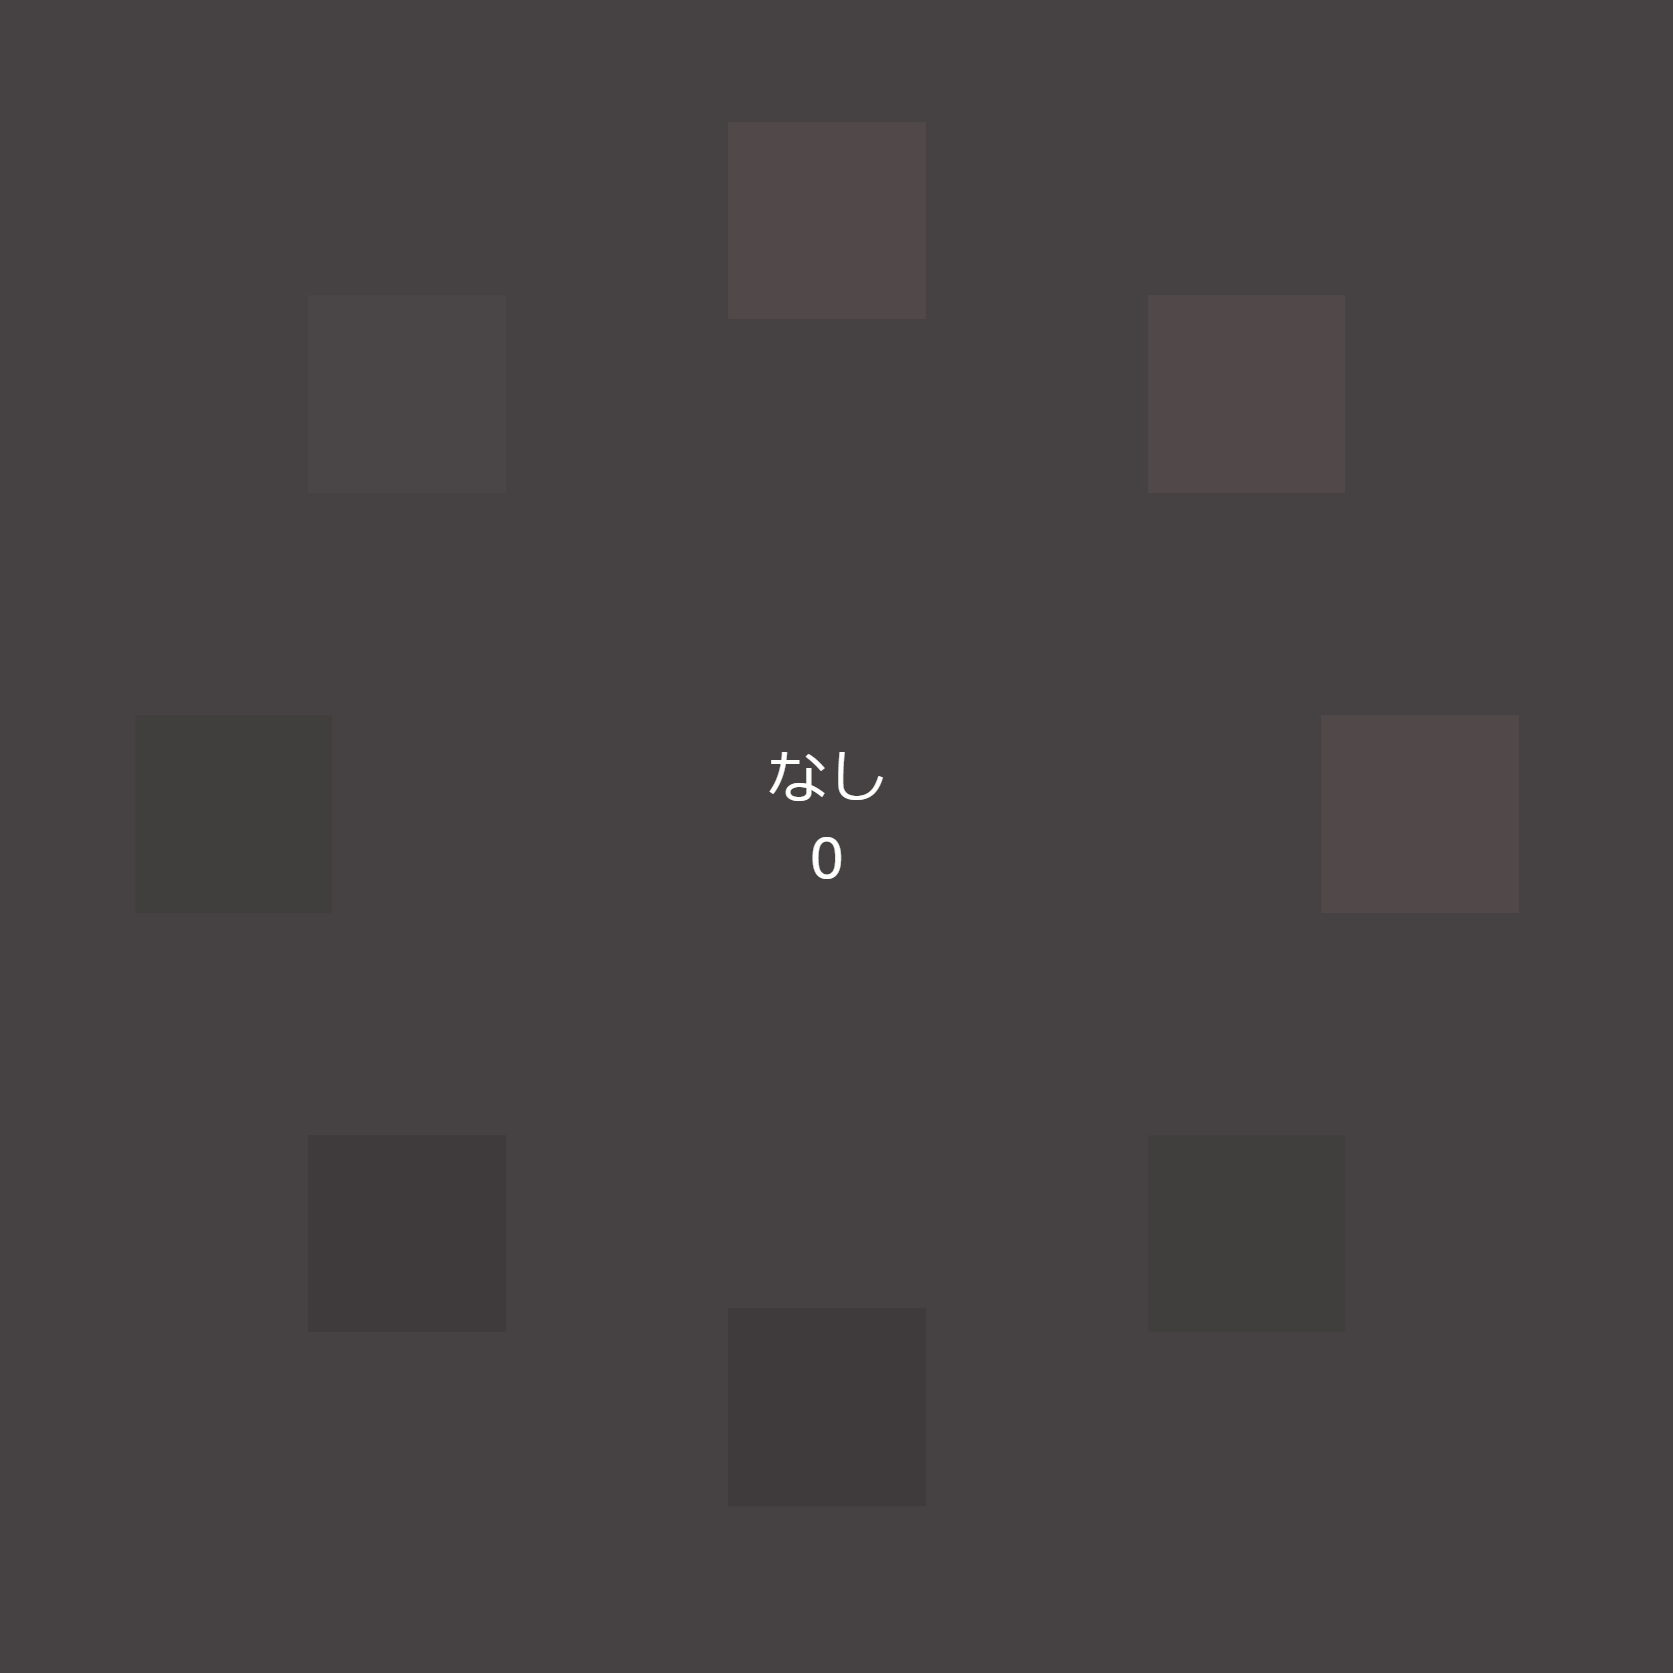
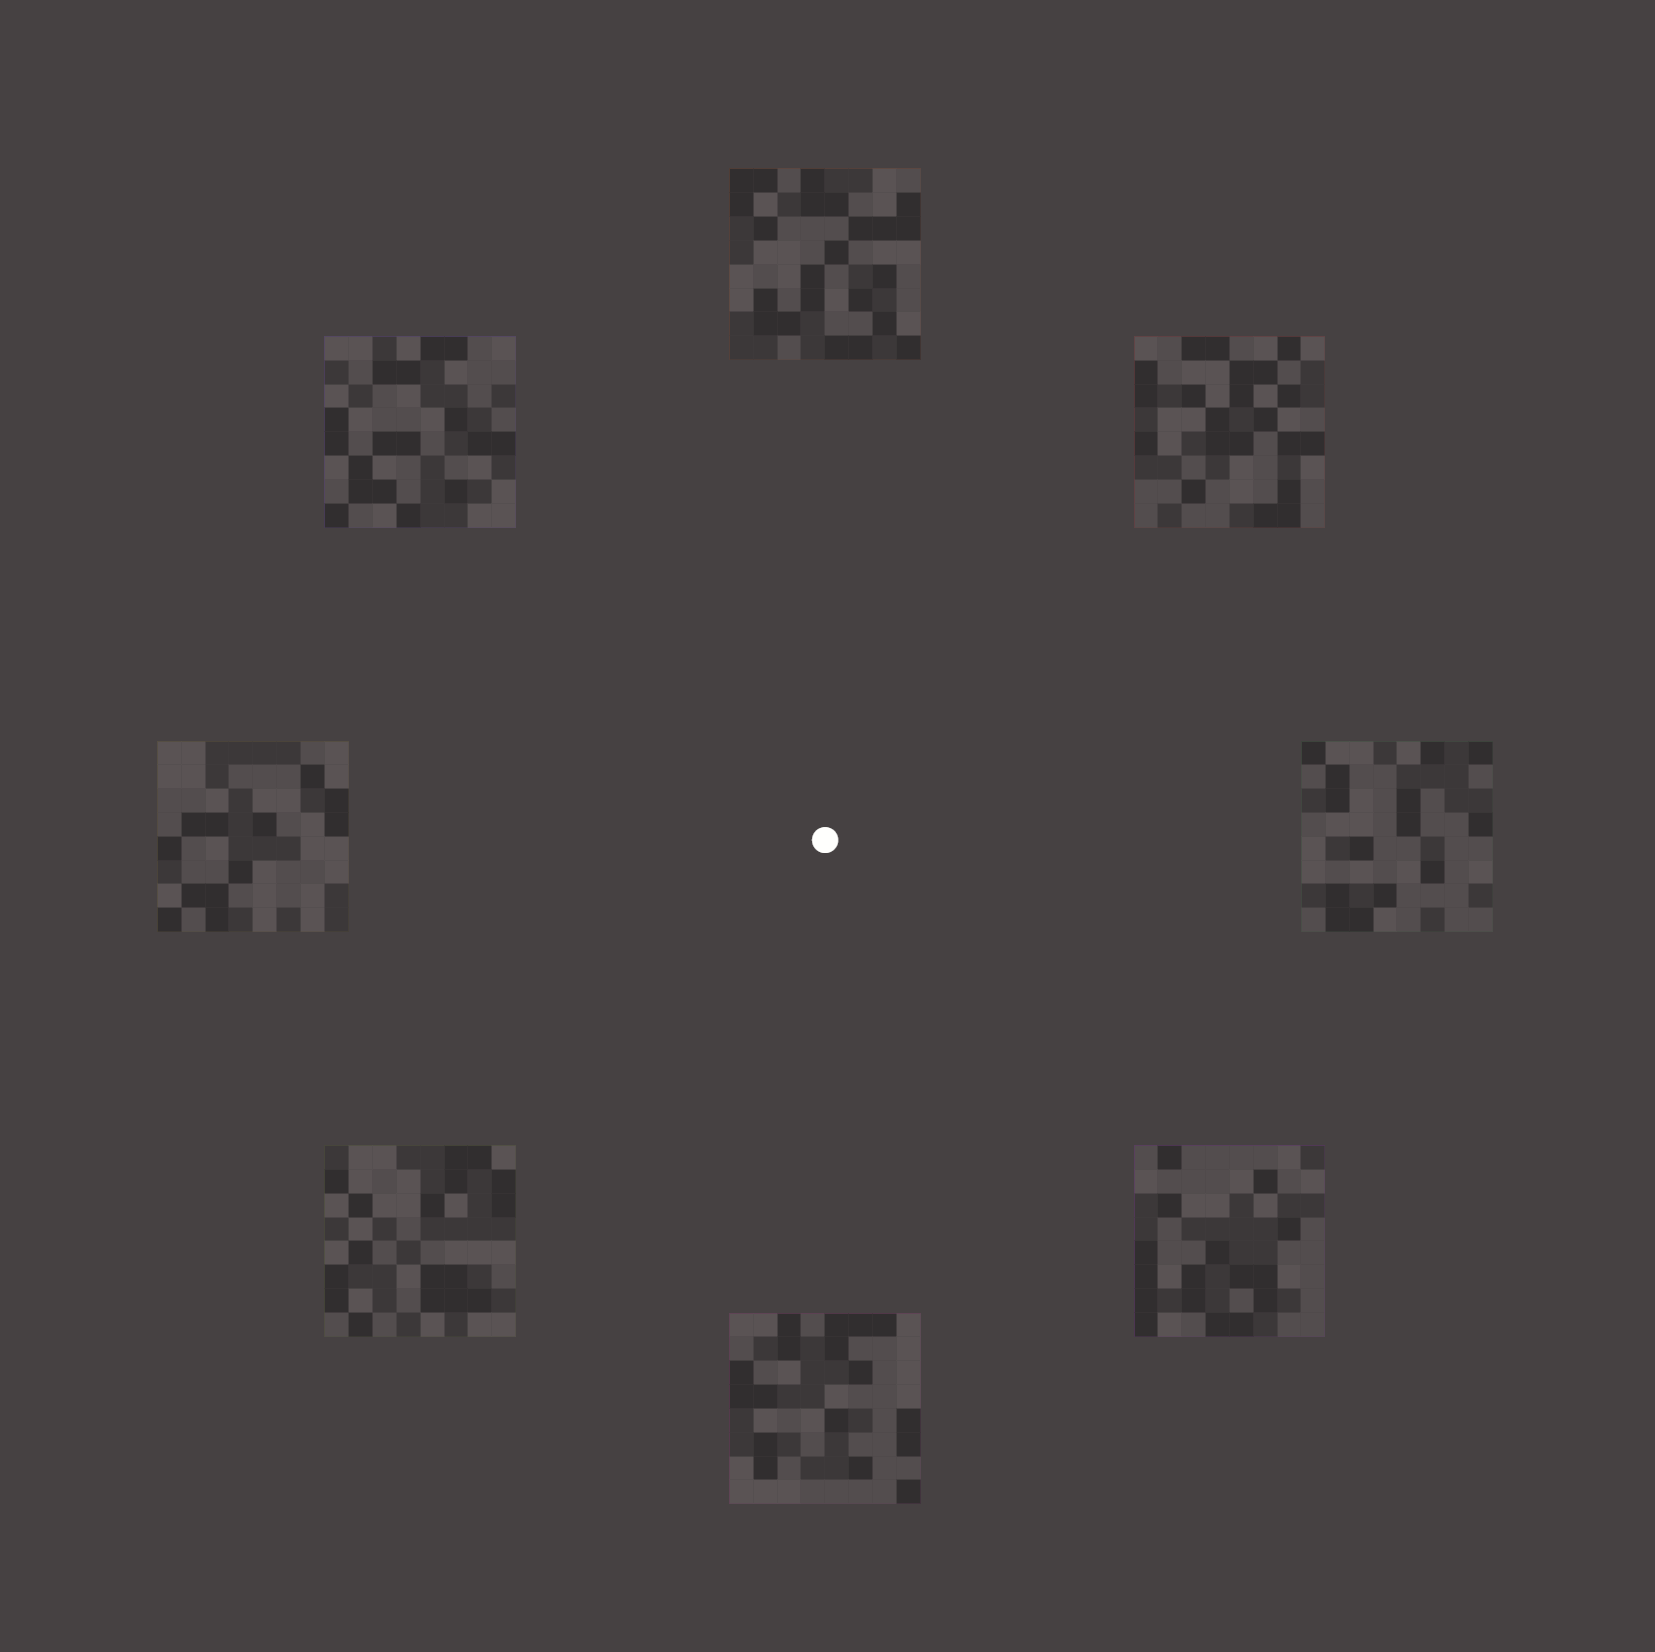
modified introduction part

diff --git a/class/html/Introduction.class.php b/class/html/Introduction.class.php
@@ -5,7 +5,7 @@
         static function introduction(){
             $htmlIntroduction = '
             <main class="introduction">
-                <p>本テストでは1から4までの手順を計120×2回繰り返します(12×2分)。画像の数は途中で変わります。</p>
+                <p>本テストでは1から5までの手順を計40繰り返します(約５分)。画像の数は途中で変わります。</p>
                 <section>
                     <figure>
                         <img src="../../img/start.png" alt="">
@@ -18,7 +18,7 @@
                         <img src="../../img/greyed.png" alt="">
                         <blockquote>
                             <h4>2.</h4>
-                            <p>0.5秒間ターゲットが消えます。視線はそのままでお願いします。</p>
+                            <p>0.5秒間ターゲットが消えます。視線はそのまま固視点に合わせていてください。</p>
                         </blockquote>
                     </figure>
                     <figure>
@@ -26,8 +26,8 @@
                         <blockquote>
                             <h4>3.</h4>
                             <p>
-                                色の画像が円周上に出てきます。ターゲット色と同じ色を見つけたら、あるいは画面上にないと思ったら、Enterキーを押してください。
-                                <strong>反応時間を測定します。Enter以外のキーには触れないようお願いします。</strong>
+                                色のついた正方形が円周上に表示されます。ターゲット色と同じ色を見つけたら、あるいは画面上にないと思ったら、STOPキーを押してください。
+                                <strong>反応時間を測定するので見つけた瞬間にSTOPキーを押してください。他のキーには触れないようお願いします。</strong>
                             </p>
                         </blockquote>
                     </figure>
@@ -36,7 +36,7 @@
                         <blockquote>
                             <h4>4.</h4>
                             <p>
-                                一瞬各色がグレーに切り替わります。
+                                0.5~1.5秒間モザイクが入ります。
                             </p>
                         </blockquote>
                     </figure>
@@ -46,7 +46,7 @@
                             <h4>5.</h4>
                             <p>
                                 ターゲットがあった場合、その位置の数字を、なかった場合、0を押してください。
-                                <strong>反応時間は測定しないです。数字以外のキーには触れないようお願いします。</strong>
+                                <strong>ここでは反応時間は測定しないです。回答以外のキーには触れないようお願いします。</strong>
                             </p>
                         </blockquote>
                     </figure>
@@ -62,7 +62,7 @@
                     <figure class="comparisionFigure">
                         <img src="../../img/comparision.png" alt="">
                         <blockquote>
-                            <p>視点を中心の白丸に合わせた状態で、近いと感じる方の色を選んでください。左の方が近いと感じた場合、1を、右の場合は3を押してください。</p>
+                            <p>視点を中心の固視点に合わせた状態で、自身に近いと感じる方の色を選んでください。<br/>左の方が近いと感じた場合は1を、右の場合は3を、押してください。</p>
                         </blockquote>
                     </figure>
                 </section>';
@@ -73,28 +73,27 @@
             $htmlIntroduction = '
             <main class="introduction">
                 <p>本テストでは1から4までの手順を計60回繰り返します(約６分)。画像の数は途中で変わります。</p>
-                <section>
-                    <figure>
+                <section>                    <figure>
                         <img src="../../img/start.png" alt="">
                         <blockquote>
                             <h4>1.</h4>
-                            <p>色が3秒間表示されます。視線を固視点に合わせつつ色を覚えてください。</p>
+                            <p>ターゲット色が3秒間表示されます。視線を固視点に合わせつつ色を覚えてください。</p>
                         </blockquote>
                     </figure>
                     <figure>
                         <img src="../../img/greyed.png" alt="">
                         <blockquote>
                             <h4>2.</h4>
-                            <p>0.5秒間ターゲットが消えます。視線はそのままでお願いします。</p>
+                            <p>0.5秒間ターゲットが消えます。視線はそのまま固視点に合わせていてください。</p>
                         </blockquote>
                     </figure>
                     <figure>
-                        <img src="../../img/response_same.png" alt="">
+                        <img src="../../img/response.png" alt="">
                         <blockquote>
                             <h4>3.</h4>
                             <p>
-                                色の画像が円周上に出てきます。●がある図形を見つけたら、あるいはそれがないと思ったら、Enterキーを押してください。
-                                <strong>反応時間を測定します。Enter以外のキーには触れないようお願いします。</strong>
+                                色のついた正方形が円周上に表示されます。●がある正方形を見つけたら、あるいはないとそれがないと思ったら、STOPキーを押してください。
+                                <strong>反応時間を測定するので見つけた瞬間にSTOPキーを押してください。他のキーには触れないようお願いします。</strong>
                             </p>
                         </blockquote>
                     </figure>
@@ -103,7 +102,7 @@
                         <blockquote>
                             <h4>4.</h4>
                             <p>
-                                一瞬各色がグレーに切り替わります。
+                                0.5~1.5秒間モザイクが入ります。
                             </p>
                         </blockquote>
                     </figure>
@@ -113,7 +112,7 @@
                             <h4>5.</h4>
                             <p>
                                 ●があった場合、その位置の数字を、なかった場合、0を押してください。
-                                <strong>反応時間は測定しないです。数字以外のキーには触れないようお願いします。</strong>
+                                <strong>ここでは反応時間は測定しないです。回答以外のキーには触れないようお願いします。</strong>
                             </p>
                         </blockquote>
                     </figure>
